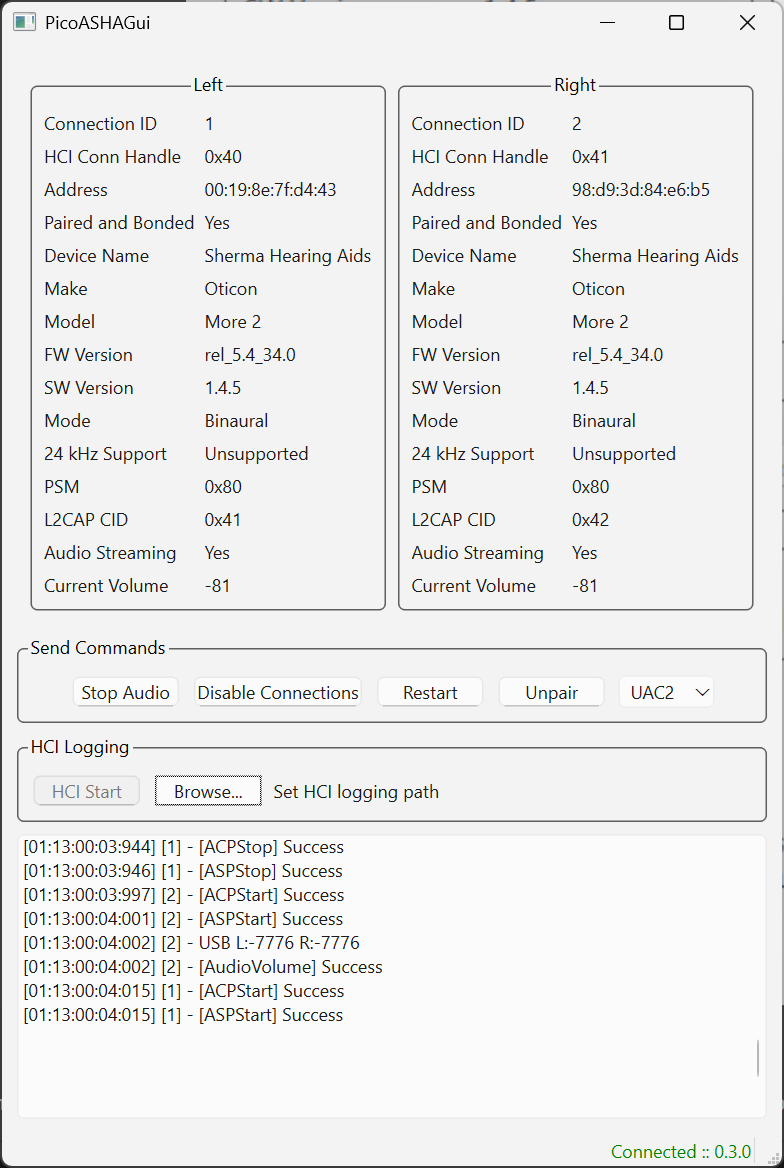
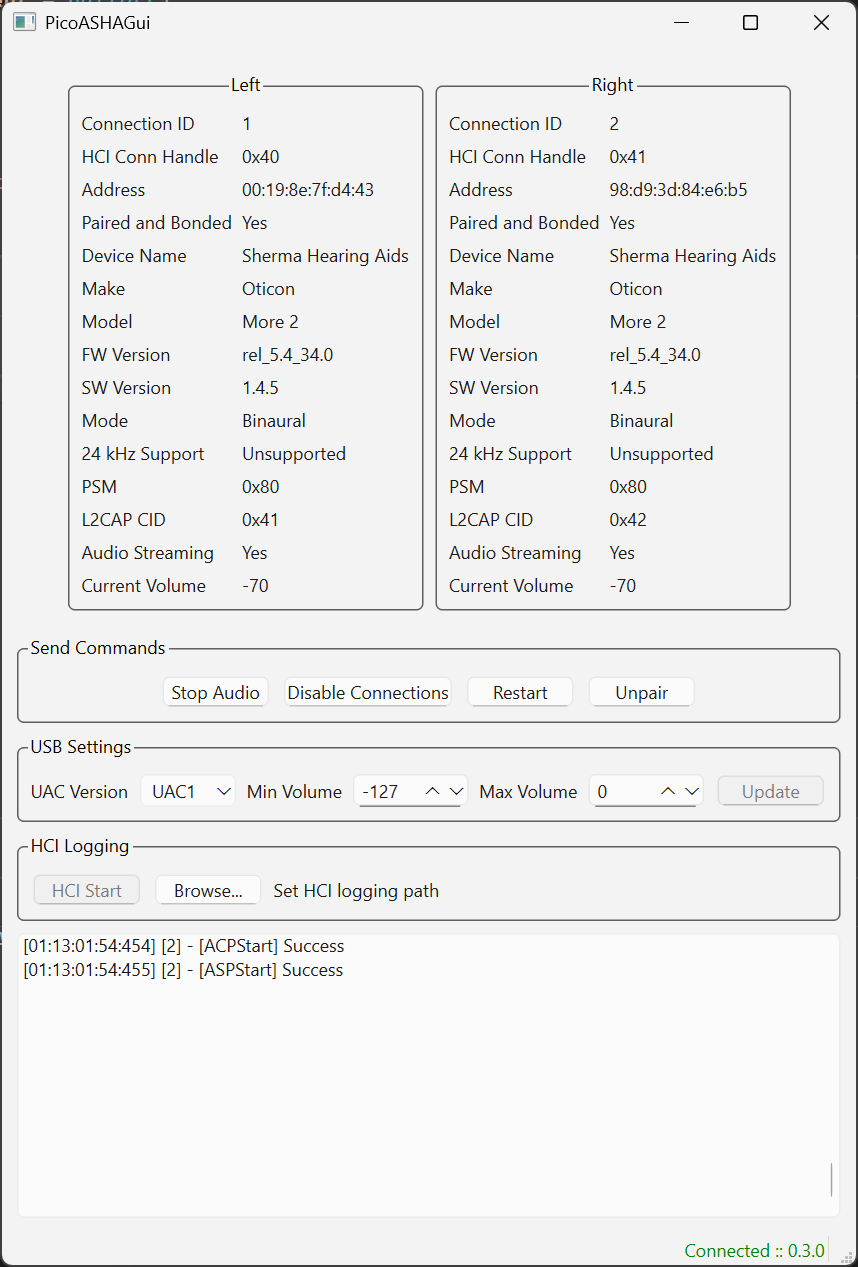
Update docs for USB settings

diff --git a/website/docs/guide.md b/website/docs/guide.md
@@ -133,10 +133,23 @@ they can be connected to another device such as an Android phone.
 - **Unpair**: Pico ASHA only supports one set of hearing devices at a time. This allows starting 
 the pairing process again, potentially with a different set of hearing devices.
 
+### USB Settings (from version 0.3.0)
+
 - **USB Audio Class version**: Select which version of the USB Audio Class to use. The default 
 is to use UAC2. If you want to use Pico-ASHA with an older operating system such as Windows XP - 8 
 you can switch to UAC1. Tested working on Windows XP (although the serial connection for the GUI 
 does not work).
+
+- **Volume management**: It may be useful to restrict the USB volume range to prevent Pico-ASHA from getting too quiet or 
+loud. The valid range is -127 (minimum) to 0 (maximum).
+      * **Minimum Volume**: Select the minimum USB volume that Pico-ASHA reports to OS. Must be lower 
+than the maximum value.
+
+      * **Maximum Volume**: Select the maximum USB volume that Pico-ASHA reports to OS. Must be greater 
+than the minimum value.
+
+- **Update button**: Allows saving the changed USB Audio Class version and volume range to Pico-ASHA.
+Changes persist accross connections.
 
 ### HCI Logging
 
